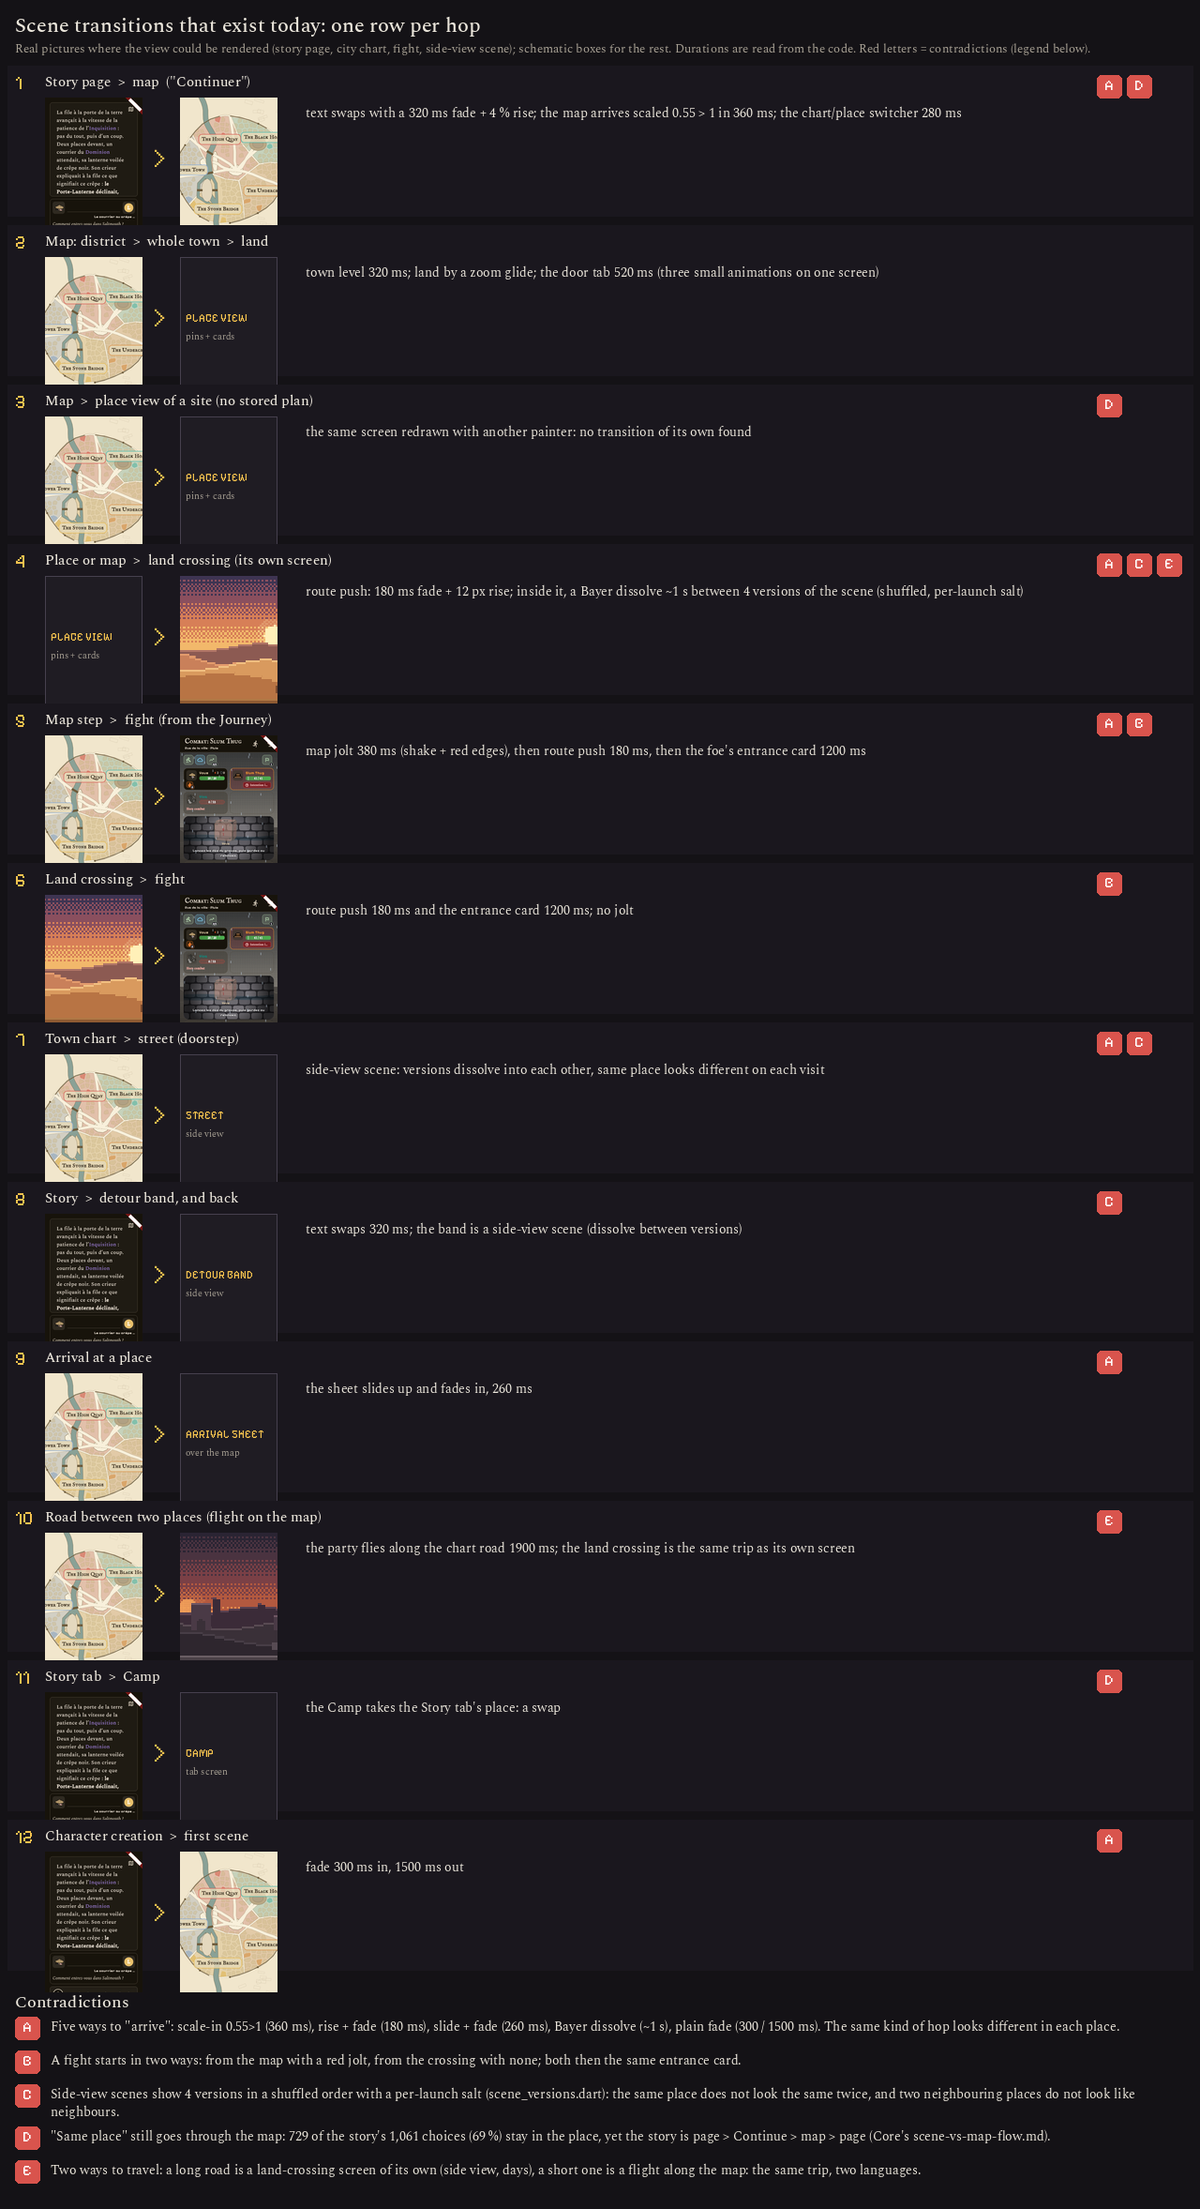
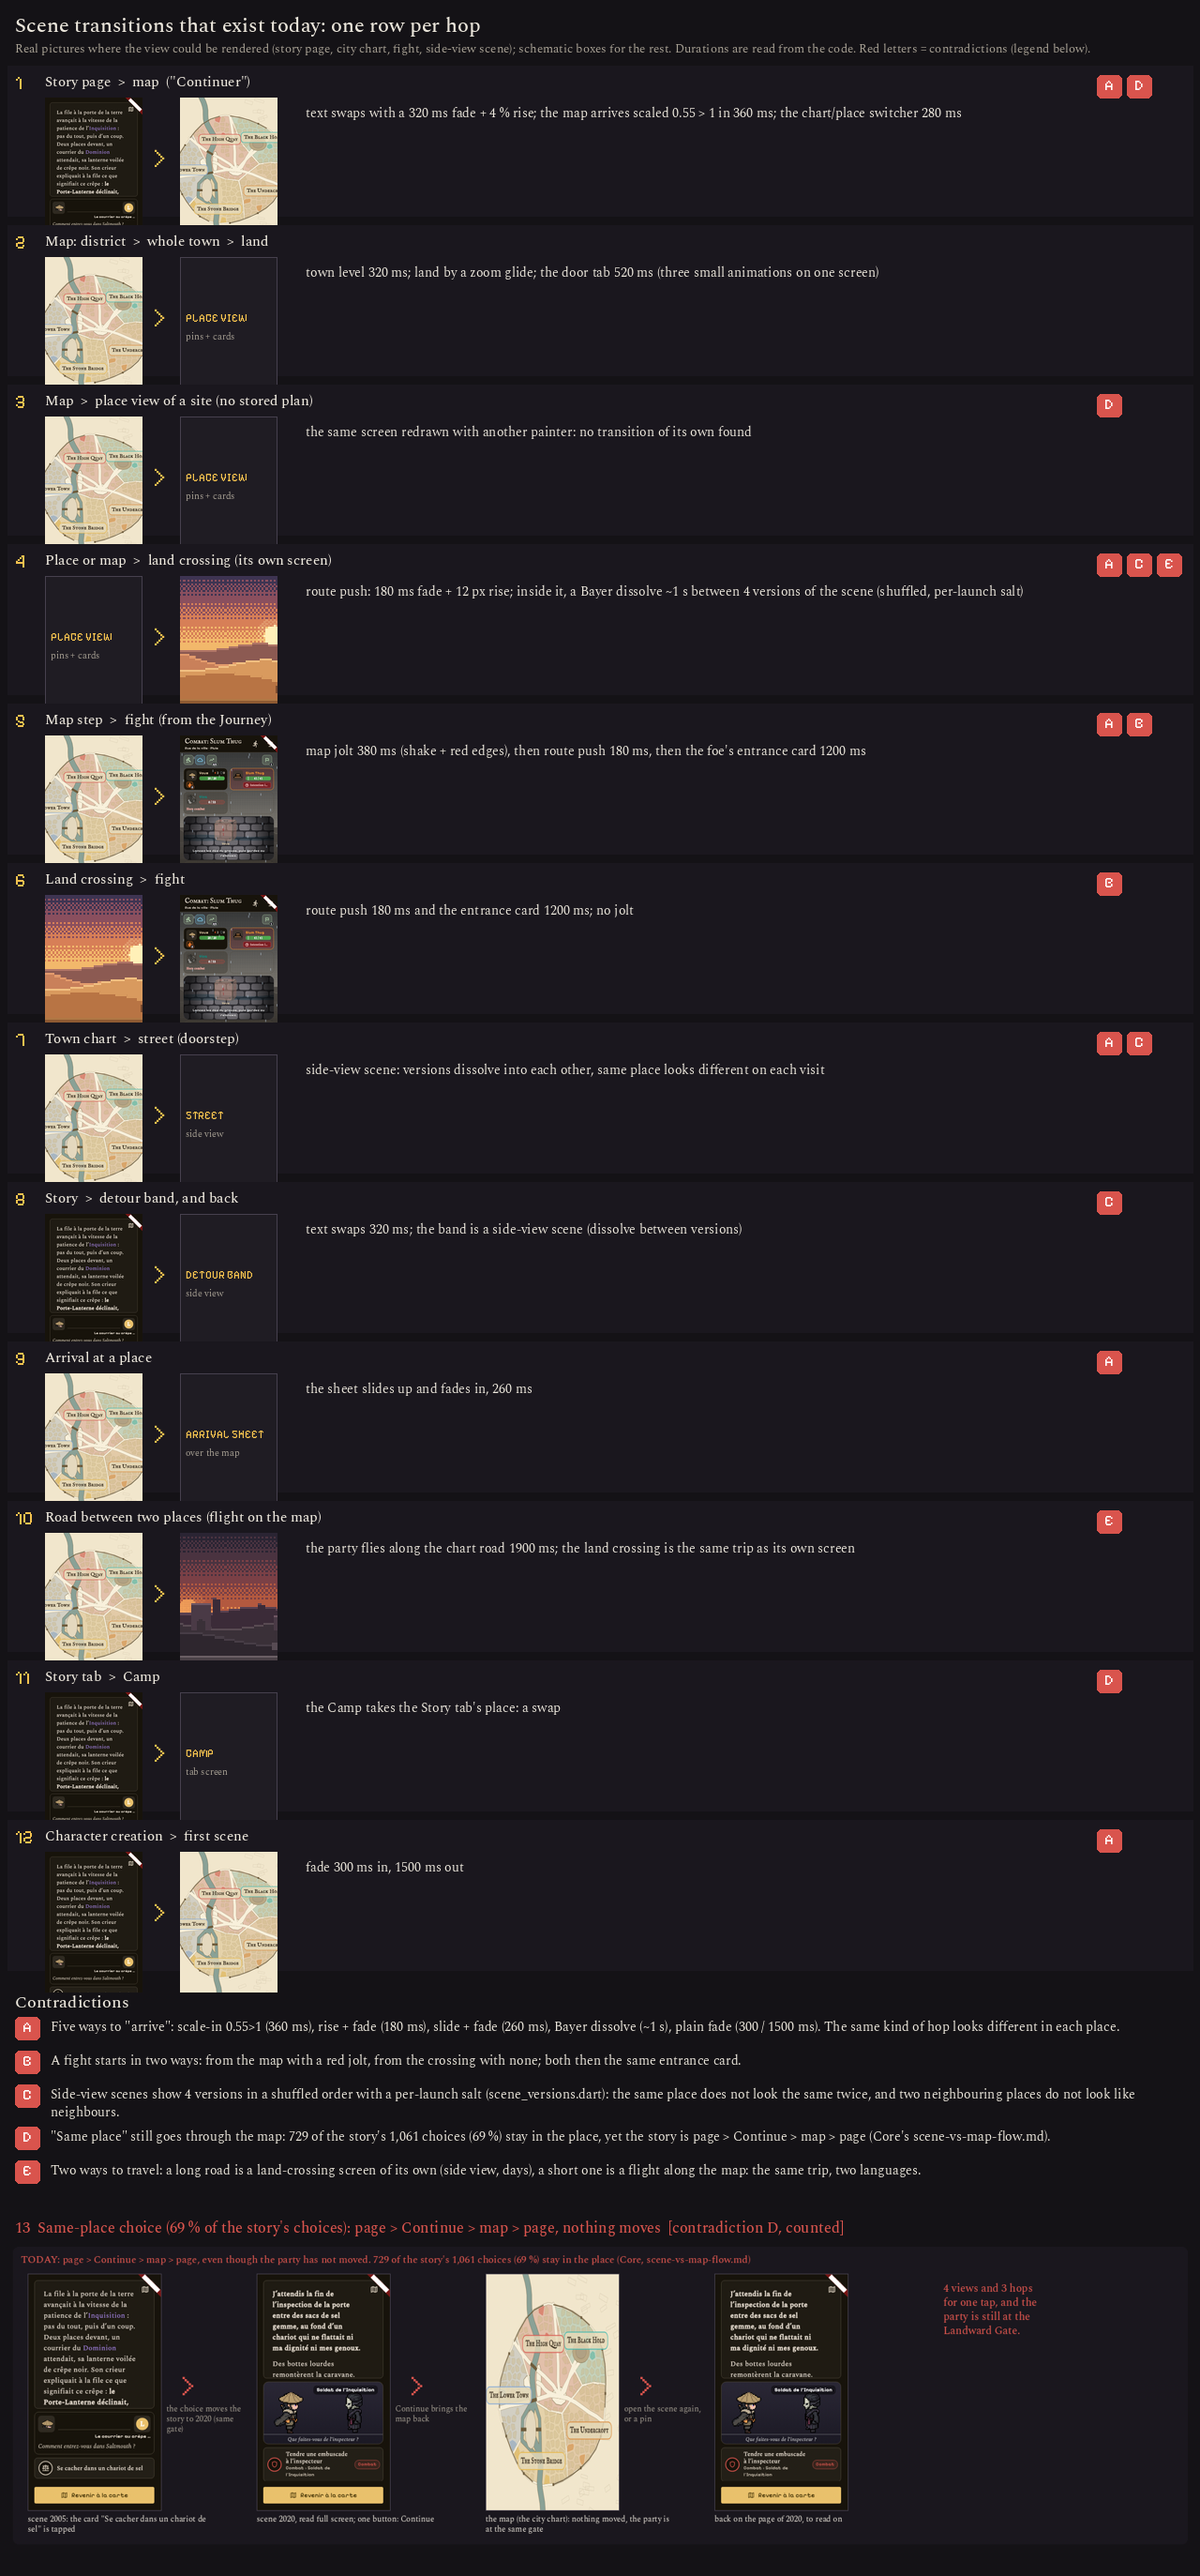
Docs: a run of scenes in one place (look for Core's v1.809), loop row with the count, Core's strip note read
Claude-Session: https://claude.ai/code/session_019ETFw2Y7wpHSXWG5mmACty

diff --git a/docs/proposals/scene-transitions.md b/docs/proposals/scene-transitions.md
@@ -27,6 +27,7 @@ marked "schematic" where I did not render it.
 | 10 | road between two places | a flight along the chart road, 1900 ms (the crossing is the same trip on its own screen) |
 | 11 | Story tab > Camp | the Camp takes the Story tab's place: a swap |
 | 12 | creation > first scene | fade 300 ms in, 1500 ms out |
+| 13 | a choice that stays in the place (69 % of them) | page > Continue > map > page, nothing moves (row 13 of the picture, with the count) |
 
 **Where they contradict each other** (red letters on the picture):
 - **A. Five ways to "arrive"**: scale-in (360 ms), rise + fade (180 ms), slide +
@@ -122,3 +123,48 @@ the blend painted by a column mask); the cards and the sheet are drawn over.
    travelling), or only the same look?
 3. Should a town keep its chart (a town is where the camera stops and the chart
    opens), or should towns also be a scene on the strip?
+
+## 5. Update: what a run of scenes in one place should look like (for Core's v1.809)
+
+Core read the code against main 1.808
+(`docs/proposals/scene-flow-status-and-strip.md`, branch `claude/core-flow-note`):
+the rule "a choice that stays in the place keeps you in the scene" was built as
+a classification (`StoryStops`, `FlowStay` / `FlowMap` / `FlowTripThenArrive` /
+`FlowReturnToHub`) but `_take` still opens the next scene and brings the map
+back with Continue after every choice that moves the story. The user told Core
+to finish that rule (logic only); this is the look it lands on, so I add it.
+
+`same-place-run.png` (real pages of scenes 2005 and 2020, both at the Landward
+Gate; the beat frame and the echo line are drawn over real pictures):
+
+- **Today** (also row 13 of `transitions-today.png`): scene 2005, tap the card,
+  scene 2020 full screen with Continue, the map, the page again: 4 views and 3
+  hops for one tap, while the party has not moved (729 of 1,061 choices).
+- **Proposed**: the scene view holds the run. The tap lights the card; a **200 ms
+  beat** cross-fades the text and the cards (the stage with its figures stays,
+  the crumbs stay, the top bar's map button stays); a **one-line echo** of the
+  choice just taken ("Vous vous cachez dans un chariot de sel.") rides the beat
+  and fades, so the thread is not lost. The map comes only when a card *moves*
+  the party (a pin, as "Entrer avec la caravane"), then the arrival sheet.
+- **Replace or append**: replace with the echo (shown). Appending (a log that
+  grows) keeps the thread by itself but makes the page grow; it suits a long
+  hub, not a short run.
+- **Reduced motion**: a cut, no beat, the echo line shows still for a second.
+- **Decision for the user**: the 200 ms beat and the echo line are my proposal;
+  "no beat, no echo" (a straight swap) is the cheaper alternative.
+
+## 6. Core's strip data, read (in case the parallax goes ahead)
+
+The user has said **not yet** to the position strip. I read Core's note for it
+anyway: a pure file (`lib/data/region_strip.dart`, 200 to 300 lines, a test, low
+risk, changes no existing code) derived from `StoryStops`,
+`Geography.placeOfNode`, `ancestorAt(zone|country)`, the landmarks' chart
+positions, `world_roads` and `world_leg_path`: a region is a strip of stops
+placed by road distance, districts spread around their town. What it settles for
+my side: the camera's x for "arriving" is a stop's `at`, and for "travelling" the
+projection of `world_leg_path` on the strip (`pathOn`). Three choices it leaves
+to the user (zone or country as the region; true road distances or even steps;
+districts in plan order or story order): for the camera, **road distances** feel
+right (the scroll is proportional to the walk), **zone** is the region (a
+country is too long for four kits), and **districts in story order** (the camera
+visits them in the order the player does). Nothing to build now.
